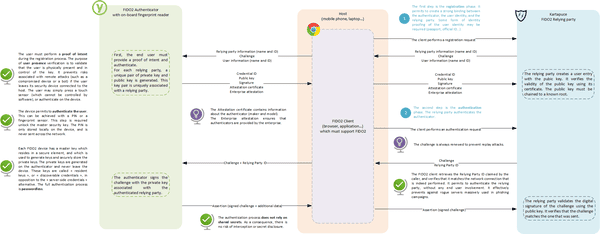
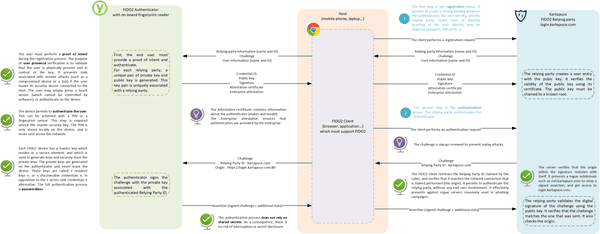
Remove useless video. Add MFA bypass page

diff --git a/_vulnerabilities/mfa.md b/_vulnerabilities/mfa.md
@@ -1,0 +1,52 @@
+---
+layout: single
+author_profile: false
+title: "Hacking MFA"
+excerpt: "MFA enabled? Almost there!"
+sidebar:
+  nav: "vulnerabilities"
+header:
+  teaser: /assets/images/hacking mfa/Mfa bypass-small.png
+gallery1:
+  - url: /assets/images/hacking mfa/Pwd attacks.png
+    image_path: assets/images/hacking mfa/Pwd attacks.png
+gallery2:
+  - url: /assets/images/hacking mfa/Mfa bypass.png
+    image_path: assets/images/hacking mfa/Mfa bypass.png
+---
+
+## Passwords are the worst! :triumph:
+
+Passwords are the most common type of authentication, however they are also poorly efficient for security.
+- New password policies are published almost every year, and always come up with changing requirements: complexity, length, rotation, reuse, passphrase… We are compelled to remember hundreds of passwords, and efficient cloud-based password managers are very often not allowed. :sob:
+- Passwords are also costly as they bully IT support teams with endless password resets. :dollar:
+- Furthermore, most of the attacks don’t even care about password complexity because they already have the full password available (black-market credential leakage exploiting reused passwords, phishing, keystroke logging, writing on a post note… :dizzy_face:). Clipping levels already protect against basic password spraying attacks on authentication forms. Complexity only protects against bruteforce attacks against stolen hash files. :page_facing_up:
+
+In the end, **passwords are not secure**.
+
+{% include gallery id="gallery1" type="center" %}
+
+**Note:** Yet another punchline: **Hackers don’t break in, they log in!** Refer to [this excellent article](https://techcommunity.microsoft.com/t5/microsoft-entra-azure-ad-blog/your-pa-word-doesn-t-matter/ba-p/731984?country=us&culture=en-us).
+{: .notice--warning}
+
+## Hacking the MFA
+
+Not all MFA are equal. And almost all of them are **breakable**. Let's collate some efficient techniques!
+- Real-time phishing: Kindly ask for an OTP… or politely ask to accept a push notification :fishing_pole_and_fish:
+- Real-time phishing: Send fake URL imitating the authentication page, and intercept the second factor
+- Channel-jacking: Take over the channel used to provide the second factor (SMS or email)
+- MFA fatigue (MFA bombing, MFA spamming)
+- SIM swap :iphone:
+- Compromised or stolen end-user device (spyware such as keylogger, rogue application)
+- Abuse weak verification (false positives on fingerprints, use generative AI…)
+- Capture victim physical attributes (record voice, collect fingerprint…) :paw_prints:
+- Use the password recovery procedure
+- Post authentication token stealing
+- Physical attack (coercion, with force, weapon…) :gun:
+
+Below is a modelling of real-time phishing with an Adversary-in-the-Middle (AitM) attack.
+
+{% include gallery id="gallery2" type="center" %}
+
+**Note:** Based on original learning material from [Government of Canada](https://www.cyber.gc.ca/en/guidance/defending-against-adversary-middle-threats-phishing-resistant-multi-factor-authentication-itsm30031).
+{: .notice--info}

diff --git a/_protocols/authentication.md b/_protocols/authentication.md
@@ -60,40 +60,6 @@ In case of **multi-factor authentication** relying  on proof of knowledge and pr
 **Note:** MFA does not necessarily provide **strong authentication**. For example, a 2FA based on a password and an SMS is not secure.
 {: .notice--warning}
 
-# There is something about passwords.
-
-## Passwords are the worst! :triumph:
-
-Passwords are the most common type of authentication, however they are also poorly efficient for security.
-- New password policies are published almost every year, and always come up with changing requirements: complexity, length, rotation, reuse, passphrase… We are compelled to remember hundreds of passwords, and efficient cloud-based password managers are very often not allowed. :sob:
-- Passwords are also costly as they bully IT support teams with endless password resets. :dollar:
-- Furthermore, most of the attacks don’t even care about password complexity because they already have the full password available (black-market credential leakage exploiting reused passwords, phishing, keystroke logging, writing on a post note… :dizzy_face:). Clipping levels already protect against basic password spraying attacks on authentication forms. Complexity only protects against bruteforce attacks against stolen hash files. :page_facing_up:
-
-In the end, **passwords are not secure**.
-
-**Note:** Yet another punchline: **Hackers don’t break in, they log in!** Refer to [this excellent article](https://techcommunity.microsoft.com/t5/microsoft-entra-azure-ad-blog/your-pa-word-doesn-t-matter/ba-p/731984?country=us&culture=en-us).
-{: .notice--warning}
-
-## Hacking the MFA
-
-Not all MFA are equal. And almost all of them are **breakable**. Let's collate some efficient techniques!
-- Phishing: Kindly ask for password, PIN… or politely ask to accept a push notification :fishing_pole_and_fish:
-- Phishing: Send fake URL imitating the authentication page
-- Bruteforcing (Password, OTP…) :hammer:
-- Credential stuffing
-- Shoulder surfing :eyeglasses:
-- Use the password recovery procedure
-- Replay attacks
-- Interception (MitM on unauthenticated or plain text protocol, such as SMS, emails, HTTP…)
-- MFA fatigue (MFA bombing, MFA spamming)
-- SIM swap :iphone:
-- Abuse weak verification (false positives on fingerprints, use generative AI…)
-- Compromised end-user device (spyware such as keylogger) 
-- Post authentication token stealing
-- Capture victim physical attributes (record voice, collect fingerprint…) :paw_prints:
-- 3rd party access (rogue application with identity delegation)
-- Physical attack (coercion, with force, weapon…) :gun:
-
 ## Let’s go ~~wild~~ passwordless :dancer:
 
 The purpose of **passwordless** is to eradicate the use of passwords. The process still uses MFA, but mostly relies on authentication and biometric factors. The [FIDO2](/protocols/fido2) specifications illustrate how the combination of a possession factor (such as a hardware *Yubikey*) and a biometric factor (fingerprint, face picture) drastically improve security.

diff --git a/_pages/about.md b/_pages/about.md
@@ -12,10 +12,3 @@ I try to keep it simple, so it is probably not self-sufficient to fully understa
 ## Who am I?
 
 I am a cybersecurity architect, currently working in the insurance & banking industry. This website regroups some of my cybersecurity cheat-sheets. Hopefully I won't lose them anymore! I hope it helps!
-
-## Quick tips for students
-
-What is it like being a system engineer in cybersecurity?  
-A first impression on the job in 2019, in the early years of my cybersecurity journey!
-
-{% include video id="AIlkIDWxdm0" provider="youtube" %}

diff --git a/_pages/vulnerabilities.md b/_pages/vulnerabilities.md
@@ -8,7 +8,7 @@ entries_layout: grid
 classes: wide
 sidebar:
   nav: "vulnerabilities"
-excerpt: "Modelling of some major CVEs."
+excerpt: "Modelling of some major vulnerabilities."
 ---
 
-Get the global picture about some major CVEs. Find out how the combination of several vulnerabilities can make you root. :innocent: This content is only provided in order to achieve better protection of your IT systems.
+Get the global picture about some major vulnerabilities. Find out how the combination of several vulnerabilities can make you root. :innocent: This content is only provided in order to achieve better protection of your IT systems.

diff --git a/index.md b/index.md
@@ -33,7 +33,7 @@ feature_row:
     btn_class: "btn--primary"
   - image_path: /assets/images/vulnerabilities.png
     title: "Vulnerabilities"
-    excerpt: "CVEs, CVEs everywhere."
+    excerpt: "Weaknesses, weaknesses everywhere."
     url: "vulnerabilities"
     btn_label: "Read More"
     btn_class: "btn--primary"